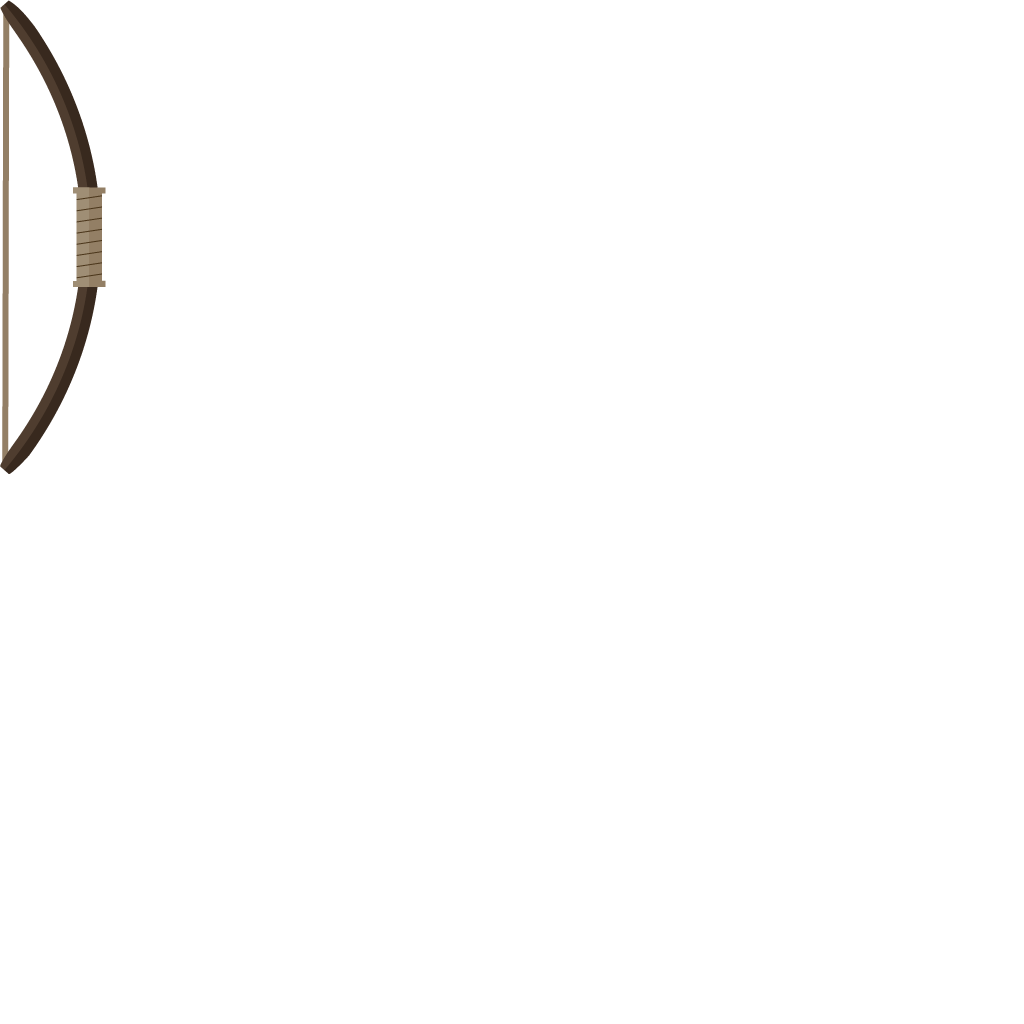
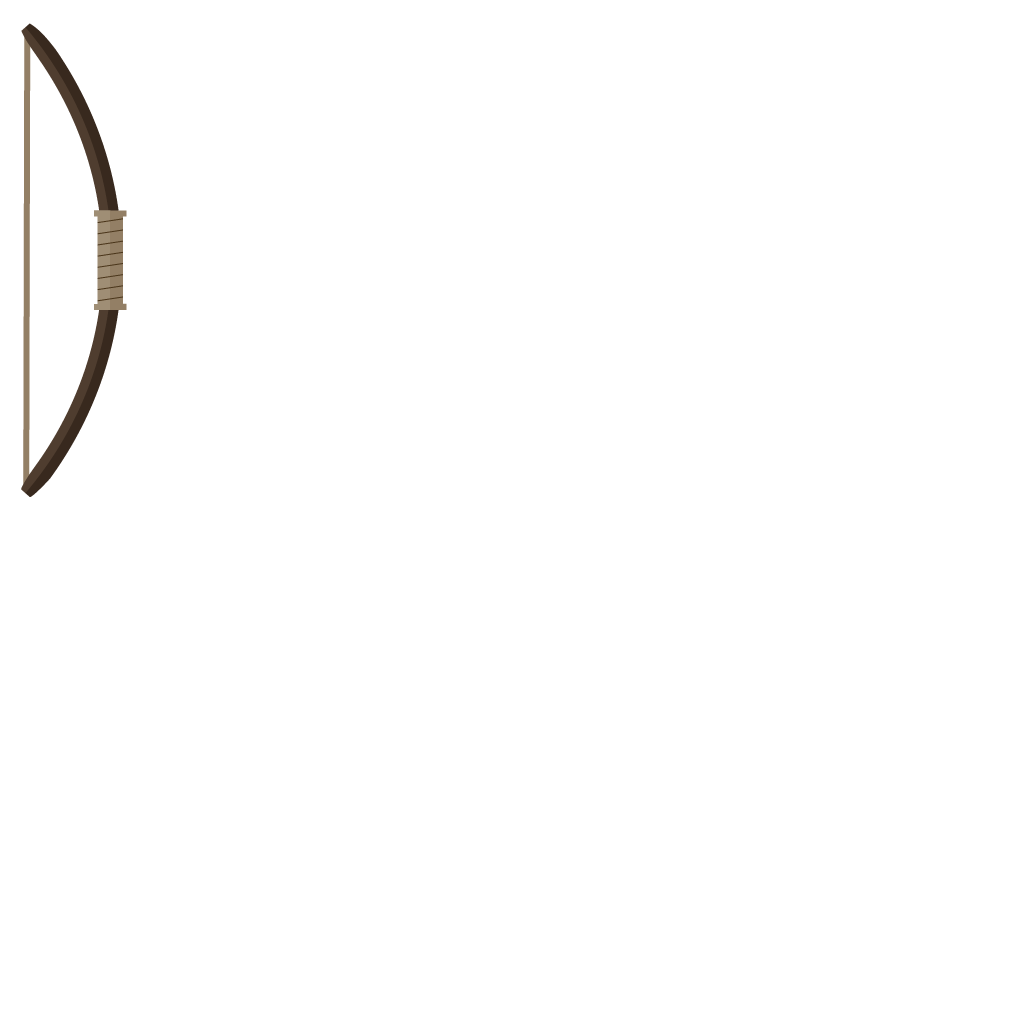
added white outline to most assets, added new weapons

Changed region(s): [[0.0, 0.0, 0.125, 0.5]]

diff --git a/vox/Source/vox/src/RaidTheCastleResourceManager.cpp b/vox/Source/vox/src/RaidTheCastleResourceManager.cpp
@@ -21,9 +21,9 @@ TextureSampler * RaidTheCastleResourceManager::castleChampionHelmet	= new Textur
 
 TextureSampler * RaidTheCastleResourceManager::splashMessage	= new TextureSampler(new Texture("../assets/hurly-burly/SplashMessages/RaidTheCastle.png", 1024, 1024, true, true), 1024, 1024);
 
-TextureSampler * RaidTheCastleResourceManager::itemFlailGrip	= new TextureSampler(new Texture("../assets/hurly-burly/WeaponAssets/FlailGrip.png", 1024, 1024, true, true), 51, 134);
-TextureSampler * RaidTheCastleResourceManager::itemFlailJoint	= new TextureSampler(new Texture("../assets/hurly-burly/WeaponAssets/FlailJoint.png", 1024, 1024, true, true), 67, 66);
-TextureSampler * RaidTheCastleResourceManager::itemFlailHead	= new TextureSampler(new Texture("../assets/hurly-burly/WeaponAssets/FlailHead.png", 1024, 1024, true, true), 178, 178);
+TextureSampler * RaidTheCastleResourceManager::itemFlailGrip	= new TextureSampler("../assets/hurly-burly/WeaponAssets/", "FlailGrip.png.def");
+TextureSampler * RaidTheCastleResourceManager::itemFlailJoint	= new TextureSampler("../assets/hurly-burly/WeaponAssets/", "FlailJoint.png.def");
+TextureSampler * RaidTheCastleResourceManager::itemFlailHead	= new TextureSampler("../assets/hurly-burly/WeaponAssets/", "FlailHead.png.def");
 
 SoundManager * RaidTheCastleResourceManager::catapultHitSounds = new SoundManager(-1);
 SoundManager * RaidTheCastleResourceManager::catapultThrowSounds = new SoundManager(-1);

diff --git a/vox/Source/vox/src/SlayTheDragonResourceManager.cpp b/vox/Source/vox/src/SlayTheDragonResourceManager.cpp
@@ -21,8 +21,8 @@ TextureSampler * SlayTheDragonResourceManager::dragonTorso		= new TextureSampler
 TextureSampler * SlayTheDragonResourceManager::dragonUpperWing	= new TextureSampler("../assets/hurly-burly/DragonAssets/", "DragonUpperWing.png.def");
 TextureSampler * SlayTheDragonResourceManager::dragonLowerWing	= new TextureSampler("../assets/hurly-burly/DragonAssets/", "DragonLowerWing.png.def");
 
-TextureSampler * SlayTheDragonResourceManager::itemBow	= new TextureSampler(new Texture("../assets/hurly-burly/WeaponAssets/Bow.png", 1024, 1024, true, true), 99, 474);
-TextureSampler * SlayTheDragonResourceManager::itemArrow	= new TextureSampler(new Texture("../assets/hurly-burly/WeaponAssets/Arrow.png", 1024, 1024, true, true), 77, 539);
+TextureSampler * SlayTheDragonResourceManager::itemBow	= new TextureSampler("../assets/hurly-burly/WeaponAssets/", "Bow.png.def");
+TextureSampler * SlayTheDragonResourceManager::itemArrow	= new TextureSampler("../assets/hurly-burly/WeaponAssets/", "Arrow.png.def");
 TextureSampler * SlayTheDragonResourceManager::itemFireball	= new TextureSampler("../assets/hurly-burly/DragonAssets/", "Fireball.png.def");
 TextureSampler * SlayTheDragonResourceManager::itemFireParticle	= new TextureSampler("../assets/hurly-burly/DragonAssets/", "FireParticle.png.def");
 

diff --git a/vox/Source/vox/src/PuppetResourceManager.cpp b/vox/Source/vox/src/PuppetResourceManager.cpp
@@ -173,6 +173,10 @@ void PuppetResourceManager::init(){
 	itemMeleeWeapons.push_back(new TextureSampler("../assets/hurly-burly/WeaponAssets/", "hamBone.png.def"));
 	itemMeleeWeapons.push_back(new TextureSampler("../assets/hurly-burly/WeaponAssets/", "stringHam.png.def"));
 	itemMeleeWeapons.push_back(new TextureSampler("../assets/hurly-burly/WeaponAssets/", "mandolin.png.def"));
+	itemMeleeWeapons.push_back(new TextureSampler("../assets/hurly-burly/WeaponAssets/", "broom.png.def"));
+	itemMeleeWeapons.push_back(new TextureSampler("../assets/hurly-burly/WeaponAssets/", "foldingChair.png.def"));
+	itemMeleeWeapons.push_back(new TextureSampler("../assets/hurly-burly/WeaponAssets/", "plunger.png.def"));
+	itemMeleeWeapons.push_back(new TextureSampler("../assets/hurly-burly/WeaponAssets/", "lamp.png.def"));
 	for(auto i : itemMeleeWeapons){
 		resources.push_back(i);
 	}
